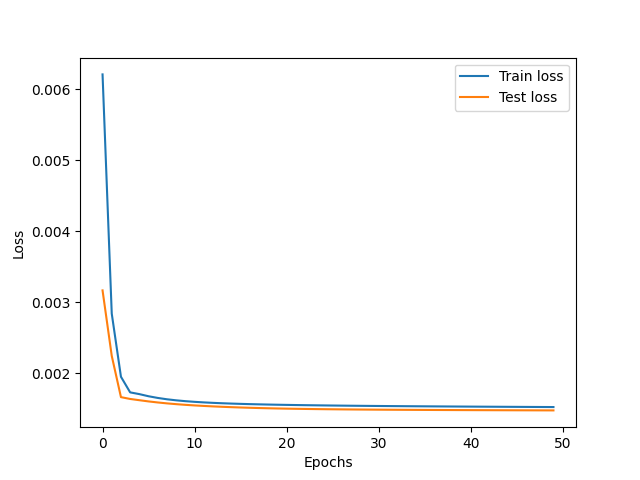
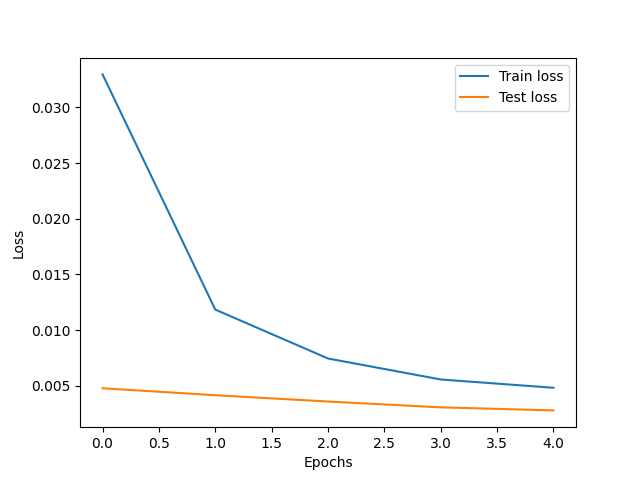
[Update] Added comments and Refactored some codes

diff --git a/config.py b/config.py
@@ -7,7 +7,7 @@ CSV_NAME = 'archive.csv'   # csv file name
 TIME_STEPS = 5          # how previous records to predict future data
 TRAIN_DATA_RATIO = 0.8   # how much data will be used for training
 LSTM_LAYER = 16    # Number lstm layer in the base model
-ITERATION = 4       # iteration name
-EPOCHS = 5          # How to many epochs the model will train
+ITERATION = 1       # iteration name
+EPOCHS = 50          # How to many epochs the model will train
 BATCH_SIZE = 32     # Batch size of training
 

diff --git a/train.py b/train.py
@@ -11,7 +11,7 @@ def plot_history(history):
     plt.xlabel('Epochs')
     plt.ylabel('Loss')
     plt.legend()
-    plt.savefig('logs/training_logs.png')
+    plt.savefig(f'logs/training_logs_it_{cfg.ITERATION}.png')
 
 
 if __name__ == '__main__':
